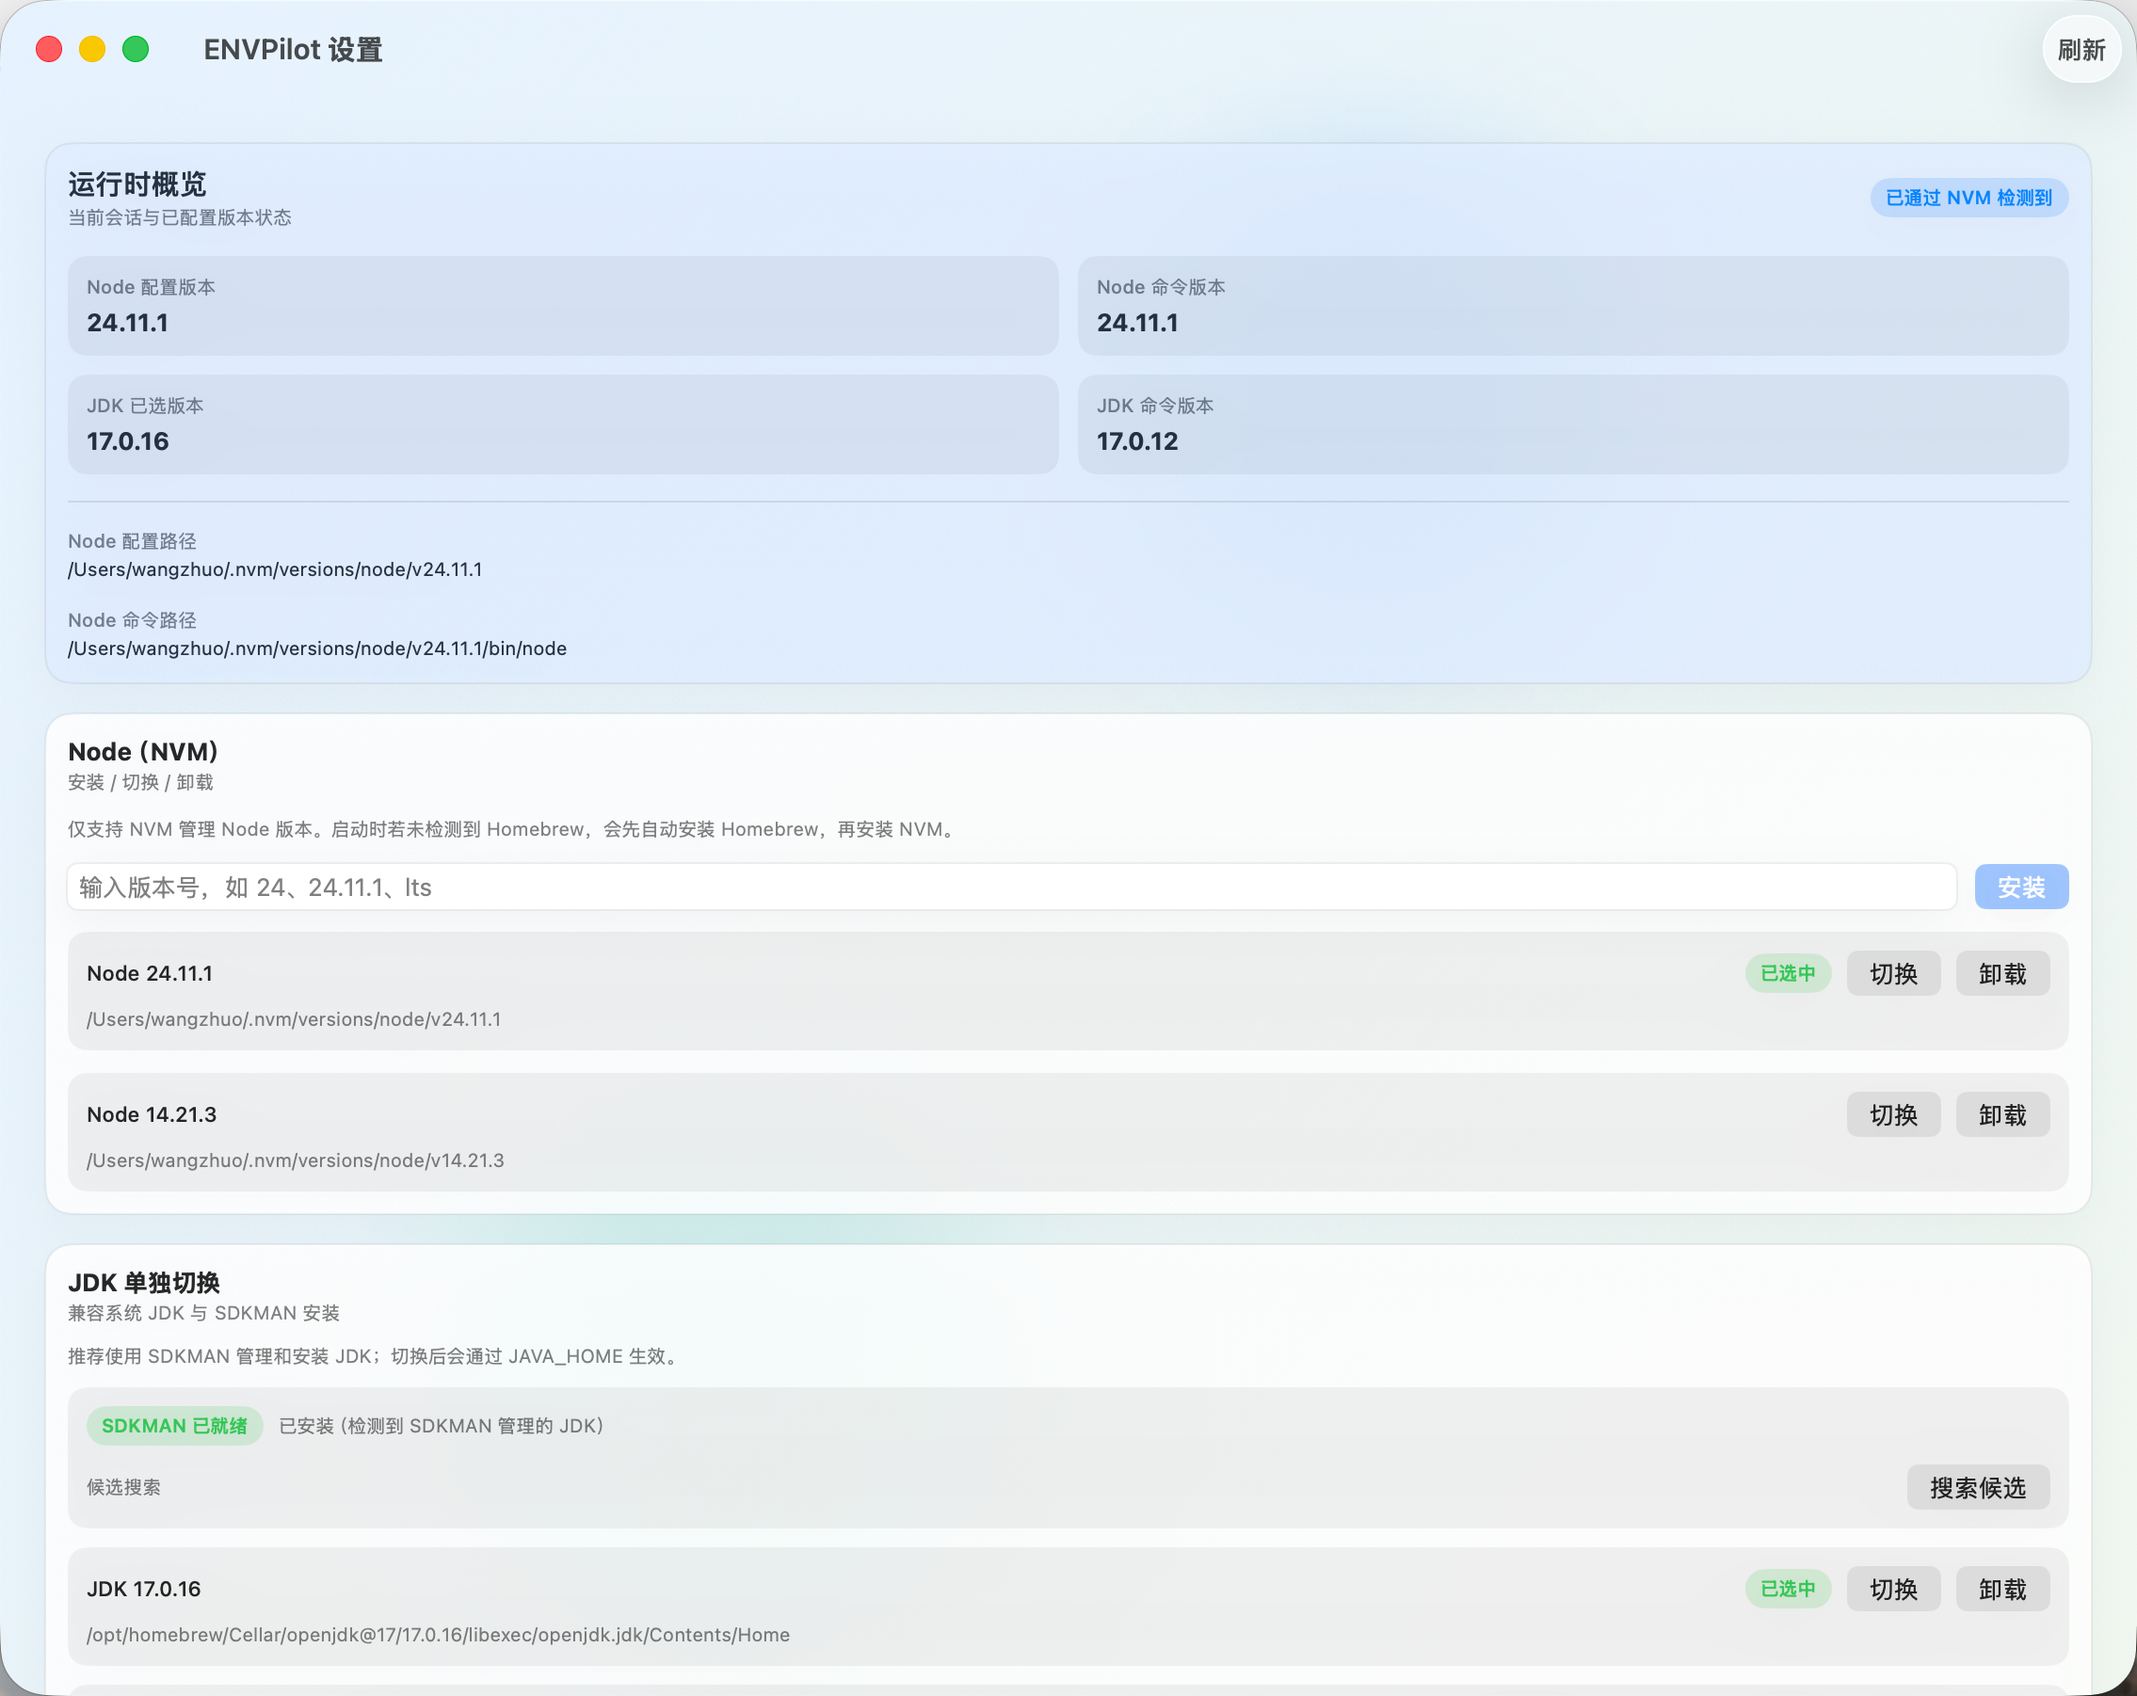
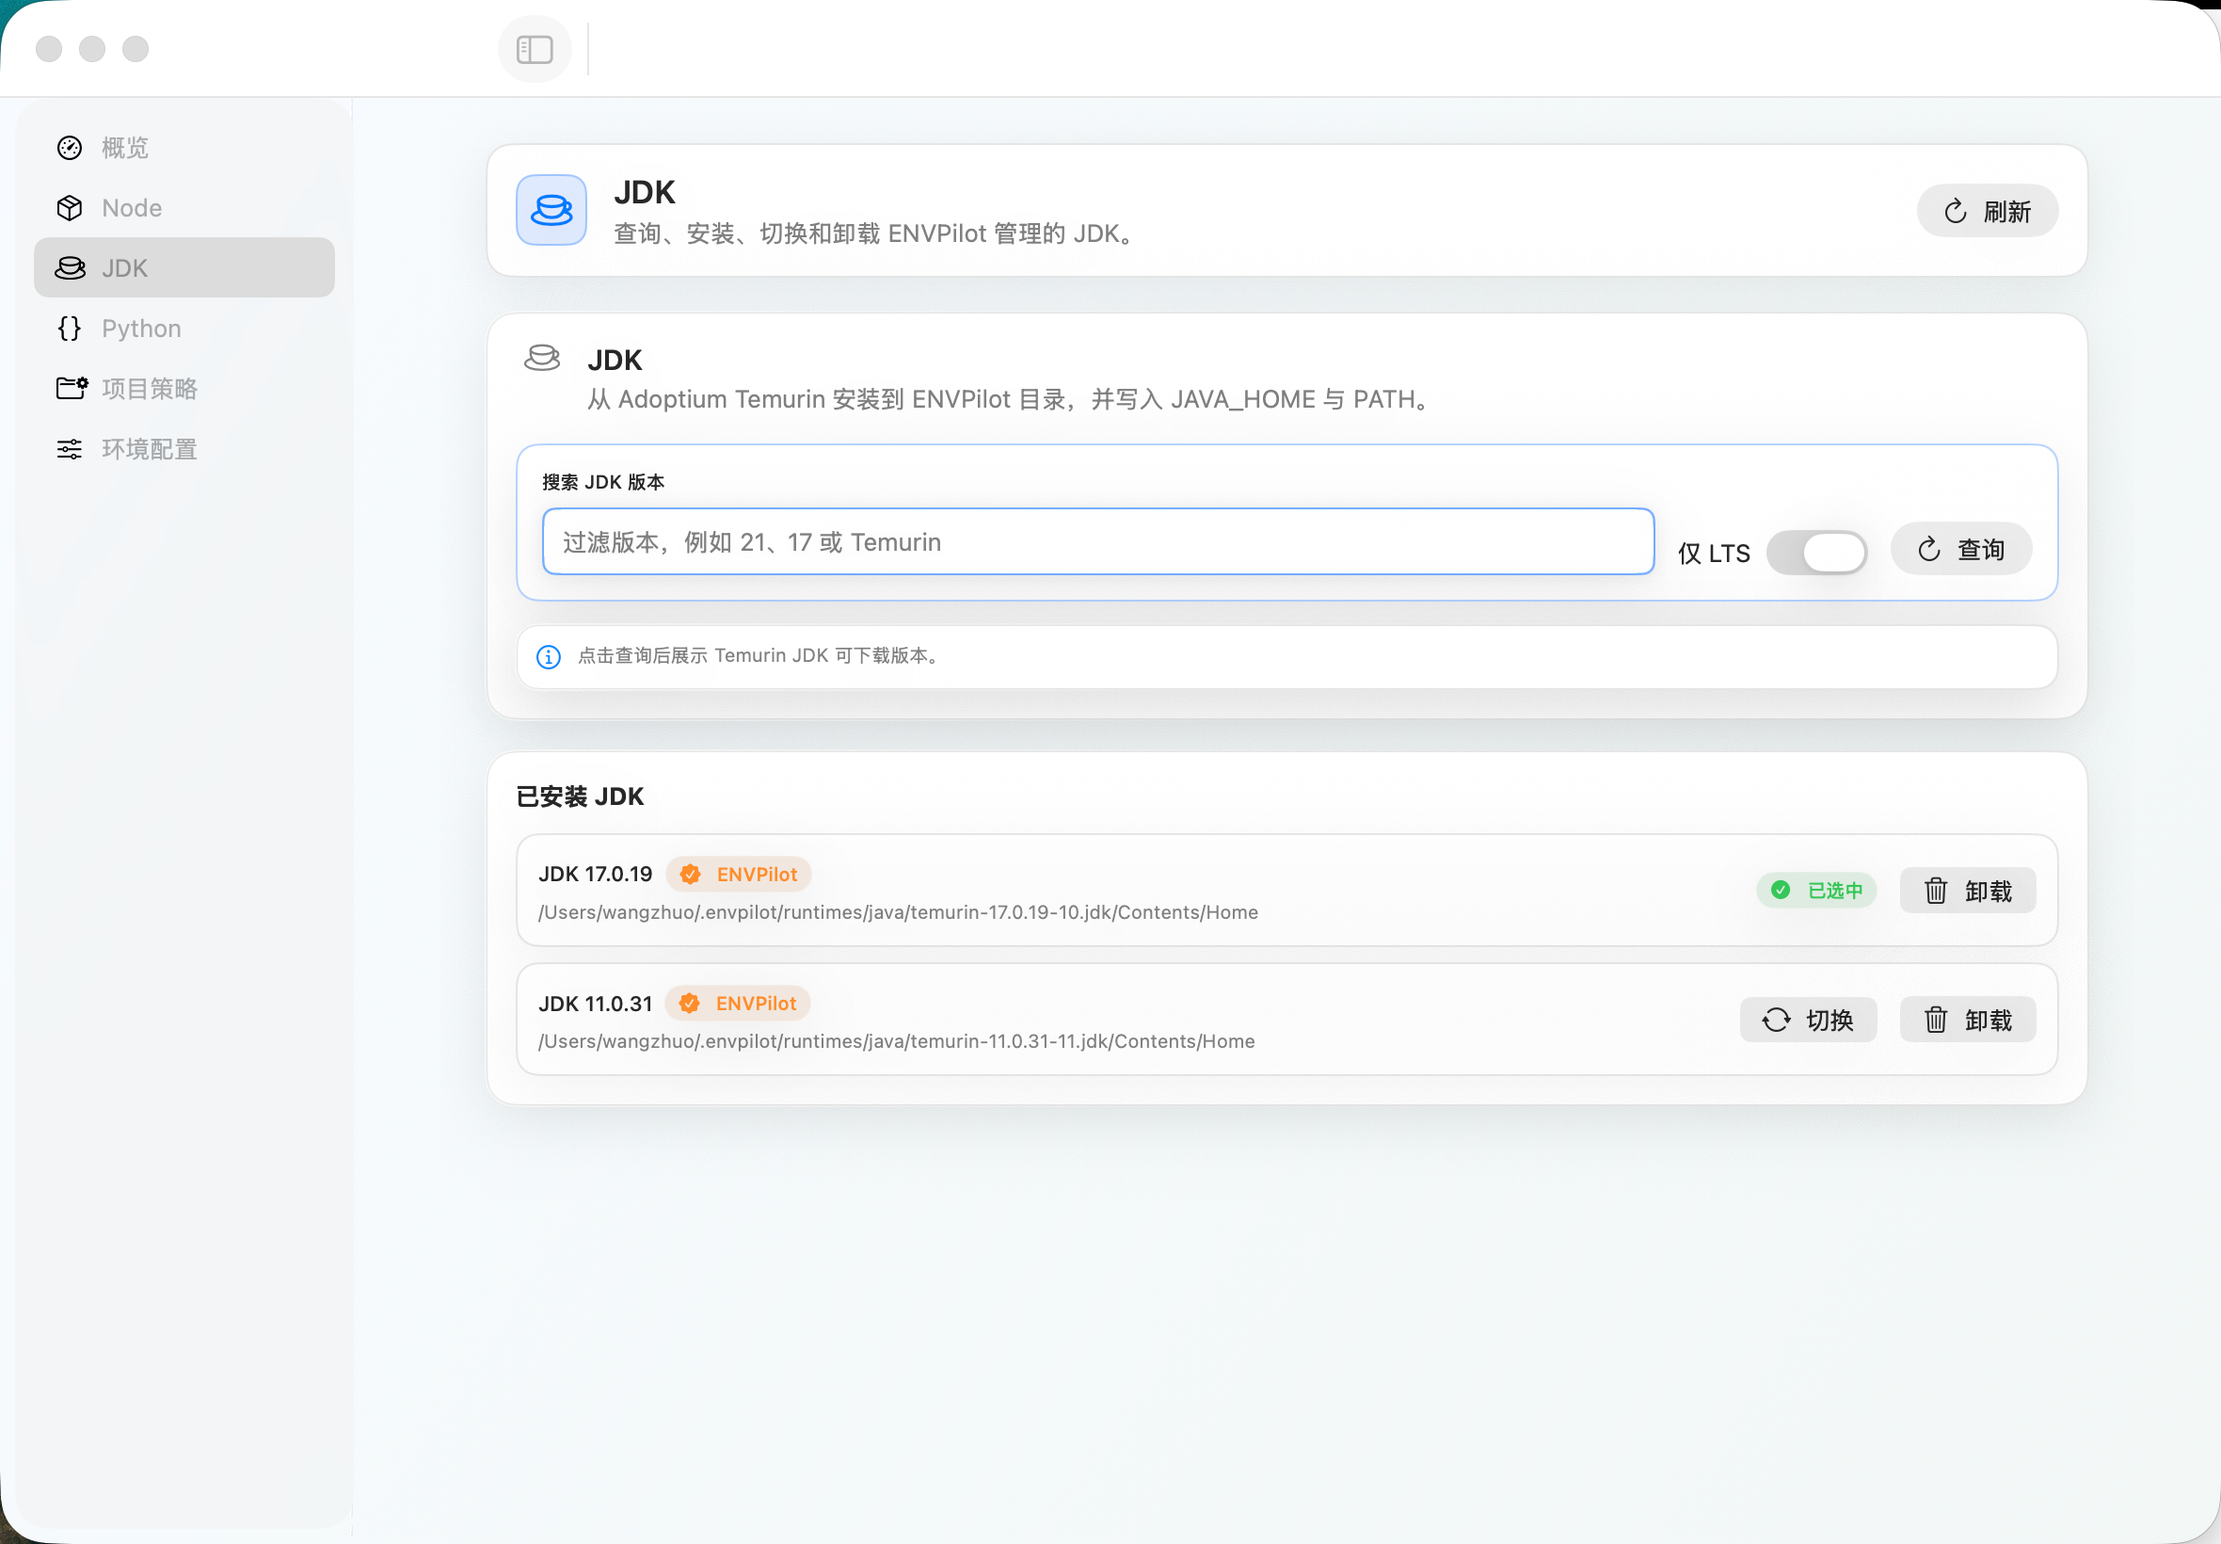
docs: update readme for v0.3.0

diff --git a/Sources/NodePilotApp/NodePilotViews.swift b/Sources/NodePilotApp/NodePilotViews.swift
@@ -172,7 +172,13 @@ struct SettingsView: View {
 
     var body: some View {
         NavigationSplitView {
-            SettingsSidebar(selection: $selectedSection)
+            List(SettingsSection.allCases, selection: $selectedSection) { section in
+                Label(section.title, systemImage: section.systemImage)
+                    .tag(section)
+            }
+            .navigationTitle("ENVPilot")
+            .scrollContentBackground(.hidden)
+            .navigationSplitViewColumnWidth(min: 160, ideal: 180, max: 220)
         } detail: {
             ZStack {
                 LiquidGlassBackground()
@@ -194,6 +200,7 @@ struct SettingsView: View {
                     .frame(maxWidth: 900, alignment: .leading)
                 }
             }
+            .frame(maxWidth: .infinity, maxHeight: .infinity)
             .navigationTitle("")
         }
         .groupBoxStyle(LiquidGlassGroupBoxStyle())
@@ -1120,61 +1127,6 @@ private struct LiquidGlassGroupBoxStyle: GroupBoxStyle {
         .padding(16)
         .frame(maxWidth: .infinity, alignment: .leading)
         .liquidGlassPanel(cornerRadius: 16, tint: Color.white.opacity(0.08))
-    }
-}
-
-private struct SettingsSidebar: View {
-    @Binding var selection: SettingsSection?
-
-    var body: some View {
-        VStack(alignment: .leading, spacing: 14) {
-            VStack(alignment: .leading, spacing: 4) {
-                Label("ENVPilot", systemImage: "terminal.fill")
-                    .font(.headline)
-                Text("运行时与环境管理")
-                    .font(.caption)
-                    .foregroundStyle(.secondary)
-            }
-            .padding(.horizontal, 12)
-            .padding(.top, 18)
-
-            VStack(spacing: 6) {
-                ForEach(SettingsSection.allCases) { section in
-                    Button {
-                        selection = section
-                    } label: {
-                        HStack(spacing: 10) {
-                            Image(systemName: section.systemImage)
-                                .font(.system(size: 14, weight: .medium))
-                                .frame(width: 22)
-                            Text(section.title)
-                                .font(.callout.weight(selection == section ? .semibold : .regular))
-                            Spacer()
-                        }
-                        .foregroundStyle(selection == section ? Color.accentColor : Color.primary.opacity(0.82))
-                        .padding(.horizontal, 12)
-                        .frame(height: 34)
-                        .background(selection == section ? AppPalette.selectedSurface : Color.clear, in: RoundedRectangle(cornerRadius: 8, style: .continuous))
-                        .overlay {
-                            RoundedRectangle(cornerRadius: 8, style: .continuous)
-                                .strokeBorder(selection == section ? AppPalette.borderStrong : Color.clear, lineWidth: 1)
-                        }
-                        .contentShape(RoundedRectangle(cornerRadius: 8, style: .continuous))
-                    }
-                    .buttonStyle(.plain)
-                }
-            }
-            .padding(.horizontal, 10)
-
-            Spacer()
-        }
-        .frame(minWidth: 160, maxWidth: 190, maxHeight: .infinity, alignment: .topLeading)
-        .background(AppPalette.sidebarSurface)
-        .overlay(alignment: .trailing) {
-            Rectangle()
-                .fill(AppPalette.border)
-                .frame(width: 1)
-        }
     }
 }
 

diff --git a/README.md b/README.md
@@ -4,21 +4,33 @@
 
 # ENVPilot
 
-ENVPilot 是一个 macOS 菜单栏工具，用于切换 Node / JDK 版本并管理环境配置。
+ENVPilot 是一个 macOS 菜单栏工具，用于自管理 Node / JDK / Python 运行时，并按全局或项目配置切换开发环境。
 
-![alt text](image.png)
+![ENVPilot main window](image.png)
 
 ## 功能
 
 - 中文界面（菜单栏与设置页）
-- Node 版本管理（仅支持 NVM）
-  - 启动时若未检测到 Homebrew，会先自动安装 Homebrew，再安装 NVM
-  - 支持可视化安装 / 切换 / 卸载 Node 版本
-  - 列表展示每个 Node 版本的安装路径
-- JDK 版本检测与切换（推荐使用 `SDKMAN!` 管理，通过 `JAVA_HOME` 激活）
-  - 支持在 App 内安装 `SDKMAN!`
-  - 支持手动输入 SDKMAN candidate id 安装 JDK
-  - 支持将 SDKMAN 管理的 JDK 设为默认版本
+- 自管理运行时，不依赖 Homebrew / SDKMAN / fnm / nvm / pyenv
+- Node 版本管理
+  - 从 Node 官方分发查询可安装版本
+  - 支持仅 LTS 查询
+  - 每个大版本只展示最新版本
+  - 支持可视化安装 / 切换 / 卸载
+- JDK 版本管理
+  - 从 Adoptium Temurin 查询可安装版本
+  - 支持仅 LTS 查询
+  - 支持可视化安装 / 切换 / 卸载
+  - 通过 `JAVA_HOME` 与 `PATH` 激活
+- Python 版本管理
+  - 从 Python 官方分发查询可安装版本
+  - 支持 Python 3.8+，每个 3.x 只展示最新 patch 版本
+  - 支持安装 / 切换 / 卸载 ENVPilot 管理的 CPython
+  - 通过 `ENVPILOT_PYTHON_HOME` 与 `PATH` 激活
+- 项目版本策略
+  - 支持 `.envpilot` 中的 `NODE_VERSION`
+  - 支持 `.envpilot` 中的 `JAVA_VERSION`
+  - 支持 `.envpilot` 中的 `PYTHON_VERSION`
 - Profile 环境配置
   - `npm/pnpm/yarn registry`
   - `NODE_OPTIONS`
@@ -70,9 +82,18 @@ swift run ENVPilotApp
 ```bash
 envpilot-helper status [--cwd <path>] [--format text|json] [--fields <k1,k2>] [--include-profile]
 envpilot-helper doctor [--format text|json] [--check <id>]
+envpilot-helper available <n|node|j|java|jdk|py|python> [--format text|json] [--lts]
+envpilot-helper install-node <version> [--dry-run]
+envpilot-helper install-jdk <feature-version> [--dry-run]
+envpilot-helper install-python <version> [--dry-run]
 envpilot-helper set-version <version> [--dry-run]
 envpilot-helper set-jdk <version-or-home-path> [--dry-run]
+envpilot-helper set-python <version-or-home-path> [--dry-run]
 envpilot-helper set-profile <profile-name-or-id> [--dry-run]
+envpilot-helper list [n|node|j|java|py|python] [--format text|json]
+envpilot-helper use n <version> [--cwd <path>]
+envpilot-helper use j <version> [--cwd <path>]
+envpilot-helper use py <version> [--cwd <path>]
 envpilot-helper profile list [--format text|json]
 envpilot-helper profile get <profile-id|name> [--format text|json]
 envpilot-helper profile create <name> [--format text|json] [--select] [--dry-run]
@@ -83,11 +104,12 @@ envpilot-helper profile set <profile-id|name> [--npm-registry <url>] [--pnpm-reg
 envpilot-helper profile var set <profile-id|name> <KEY> <VALUE> [--dry-run]
 envpilot-helper profile var unset <profile-id|name> <KEY> [--dry-run]
 envpilot-helper profile var list <profile-id|name> [--format text|json]
-envpilot-helper config get <project-version-preference|selected-version|selected-java-version|selected-java-home|selected-profile-id|selected-profile-name>
+envpilot-helper config get <project-version-preference|selected-version|selected-java-version|selected-java-home|selected-python-version|selected-python-home|selected-profile-id|selected-profile-name>
 envpilot-helper config set project-version-preference <globalDefault|followProjectFiles>
 envpilot-helper config set selected-version <version|none>
 envpilot-helper config set selected-profile <profile-id|name|none>
 envpilot-helper config set selected-java <version-or-home-path|none>
+envpilot-helper config set selected-python <version-or-home-path|none>
 envpilot-helper activate [--cwd <path>] [--format text|json]
 envpilot-helper install-snippet [--helper-path <path>] [--format text|json]
 ```
